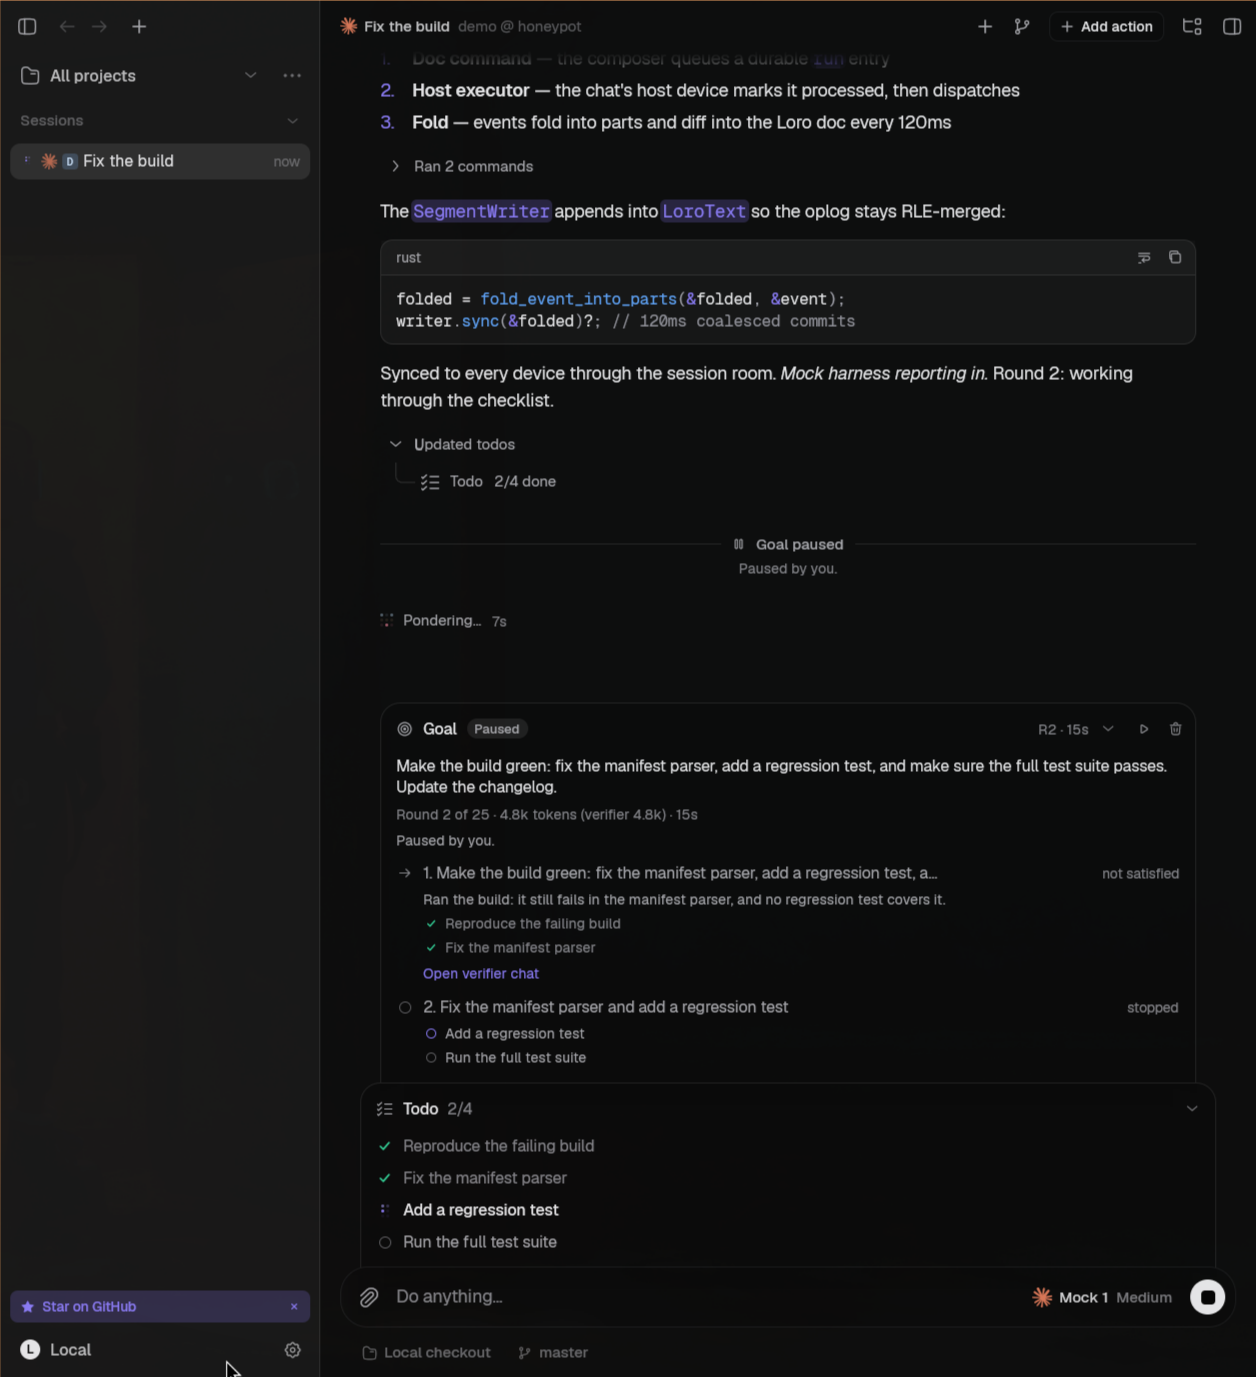
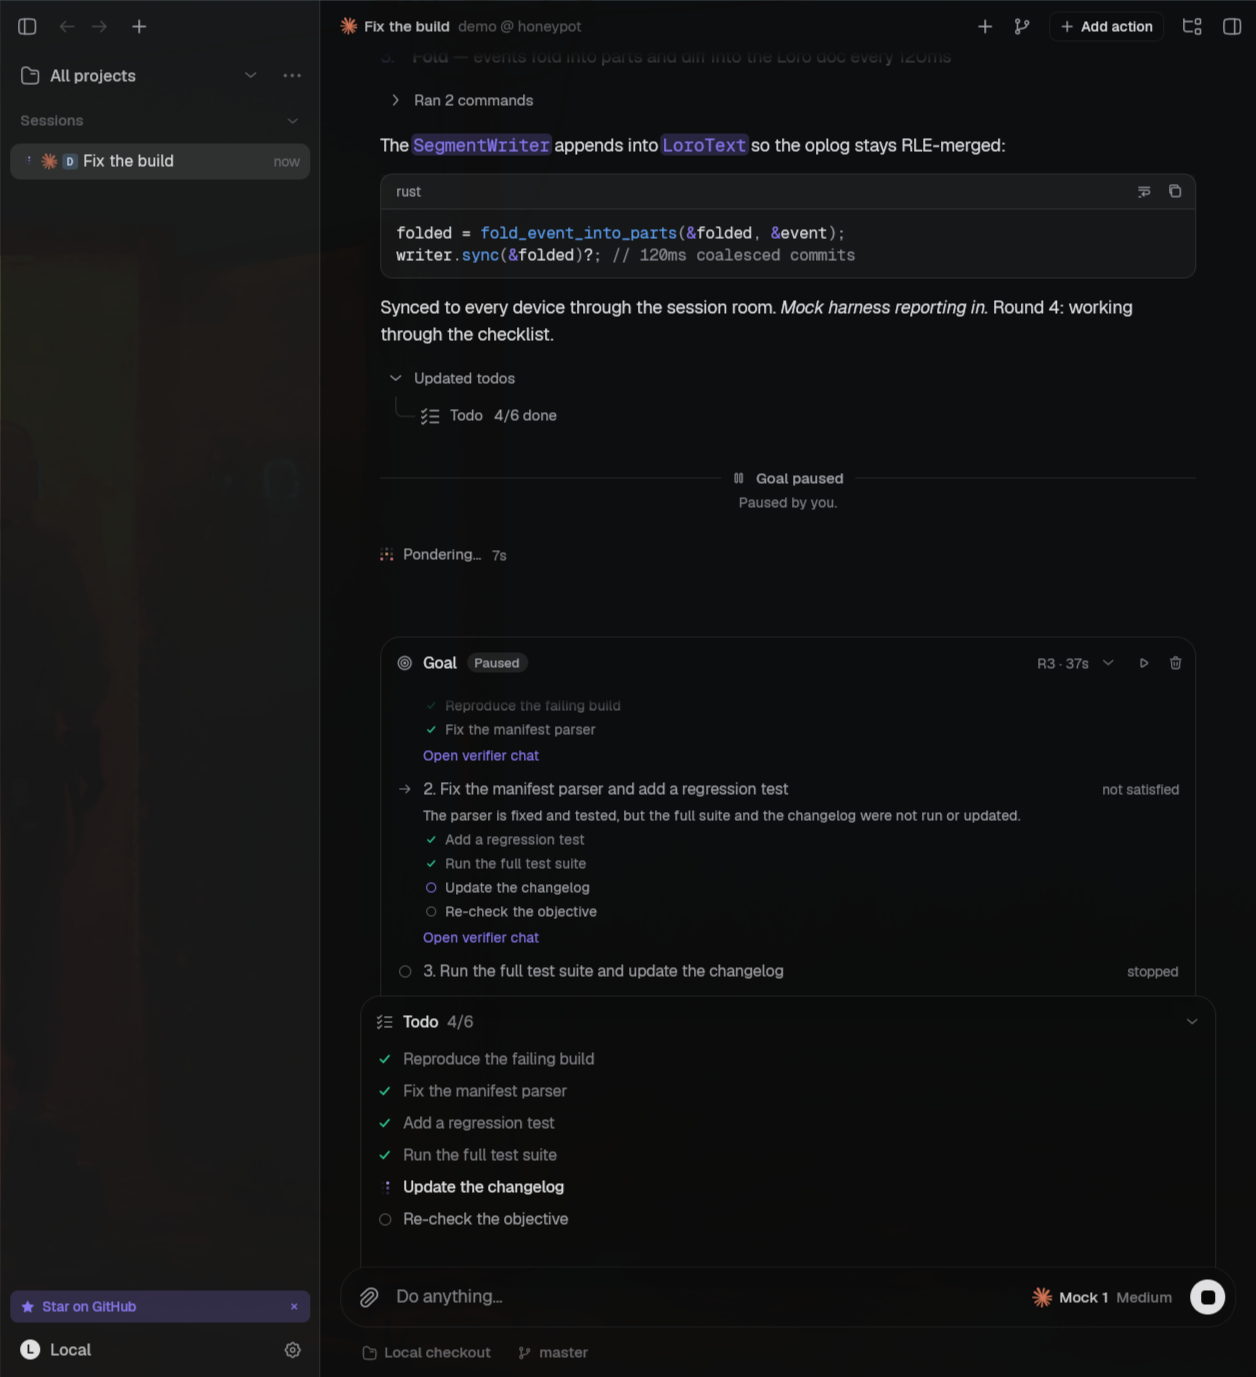
Dock: stacked trays clear each other and cap their heights
The expanded goal list was cut off by the todo tray tucked over it. Every
expanded list now keeps a bottom clearance equal to the tuck overlap (the todo
tray too, a one-line change in todo_panel.rs), the goal list's height share
shrinks as trays stack below it, and it follows the newest round. Retook the
goal-mode screenshots and added a stacked-trays one.

diff --git a/crates/ui/src/goal_panel.rs b/crates/ui/src/goal_panel.rs
@@ -422,6 +422,10 @@ pub(crate) struct GoalPanelState {
     pub open_rounds: HashSet<u32>,
     /// Bumped on every toggle so the body's fade-in replays.
     pub epoch: u32,
+    /// What the list was last scrolled to the end for (rounds, verdicts,
+    /// status); it follows the newest round when it opens and whenever a
+    /// round or verdict lands.
+    pub followed: Option<(usize, usize, GoalStatus)>,
 }
 
 // ---------------------------------------------------------------------------
@@ -436,6 +440,23 @@ const TEXT_LINE: f32 = 17.0;
 const GLYPH_SLOT: f32 = 14.0;
 const ACTION_SIZE: f32 = 24.0;
 const SIDE_INSET: f32 = 16.0;
+/// Space kept clear under the expanded list. Every tray tucks
+/// `QUEUE_COMPOSER_OVERLAP` behind whatever follows it (the todo or queue tray,
+/// or the composer); without this clearance the last round row would sit under
+/// that edge.
+pub(crate) const BODY_BOTTOM_CLEARANCE: f32 = 6.0 + QUEUE_COMPOSER_OVERLAP;
+
+/// Share of the window height the expanded goal list may take. The todo and
+/// queue trays each cap at 0.3; the goal tray gives way as trays stack below
+/// it, so a short window keeps room for the transcript and every list scrolls
+/// inside its own cap instead of pushing another tray out of view.
+pub(crate) fn body_height_fraction(trays_below: usize) -> f32 {
+    match trays_below {
+        0 => 0.32,
+        1 => 0.22,
+        _ => 0.18,
+    }
+}
 
 fn tone_color(tone: Tone, theme: &Theme) -> gpui::Hsla {
     match tone {
@@ -478,6 +499,13 @@ impl Composer {
                 let state = self.state.read(cx);
                 rounds(&goal, &state.transcript)
             };
+            let signature = (round_views.len(), goal.verdicts.len(), goal.status);
+            if panel.followed != Some(signature) {
+                self.goal_scroll.scroll_to_bottom();
+                if let Some(state) = self.goal_panels.get_mut(&chat_id) {
+                    state.followed = Some(signature);
+                }
+            }
             let body = self.goal_body(
                 &chat_id,
                 &goal,
@@ -495,7 +523,7 @@ impl Composer {
                 true,
                 div()
                     .id("goal-panel-body")
-                    .max_h(window.viewport_size().height * 0.36)
+                    .max_h(window.viewport_size().height * body_height_fraction(below))
                     .overflow_y_scroll()
                     .track_scroll(&self.goal_scroll)
                     .child(body),
@@ -601,6 +629,7 @@ impl Composer {
                 let panel = this.goal_panels.entry(toggle_chat.clone()).or_default();
                 panel.expanded = !panel.expanded;
                 panel.epoch = panel.epoch.wrapping_add(1);
+                panel.followed = None;
                 cx.notify();
             }))
             .tooltip(crate::settings::widgets::text_tooltip(label))
@@ -1085,6 +1114,7 @@ impl Composer {
             let panel = self.goal_panels.entry(chat_id.to_owned()).or_default();
             panel.expanded = true;
             panel.epoch = panel.epoch.wrapping_add(1);
+            panel.followed = None;
         } else {
             self.failure =
                 Some("This chat has no goal. Type /goal followed by an objective.".into());
@@ -1179,6 +1209,19 @@ mod tests {
 
     fn goal() -> Goal {
         Goal::new("g1", "Ship the thing", &GoalLimits::default(), 0).unwrap()
+    }
+
+    #[test]
+    fn stacked_trays_split_the_height_and_clear_the_overlap() {
+        // The goal list never takes more than the todo/queue cap, shrinks as
+        // trays stack under it, and the three together stay under 4/5 of the
+        // window (each list scrolls inside its own cap).
+        assert!(body_height_fraction(0) <= 0.35);
+        assert!(body_height_fraction(1) < body_height_fraction(0));
+        assert!(body_height_fraction(2) < body_height_fraction(1));
+        assert!(body_height_fraction(2) + 0.3 + 0.3 < 0.8);
+        // The last row clears the edge the next tray tucks over.
+        assert!(BODY_BOTTOM_CLEARANCE > QUEUE_COMPOSER_OVERLAP);
     }
 
     #[test]

diff --git a/crates/ui/src/todo_panel.rs b/crates/ui/src/todo_panel.rs
@@ -337,9 +337,10 @@ impl Composer {
             surface.child(
                 div()
                     .mt(px(2.0))
-                    // The tray's lowest strip hides behind the composer; keep
-                    // the last row clear of that edge.
-                    .pb(px(6.0))
+                    // The tray's lowest strip hides behind whatever follows
+                    // (the queue tray or the composer); keep the last row clear
+                    // of that edge.
+                    .pb(px(crate::goal_panel::BODY_BOTTOM_CLEARANCE))
                     .child(rows)
                     .with_animation(
                         SharedString::from(format!("todo-rows-{epoch}")),

diff --git a/docs/goal-mode.md b/docs/goal-mode.md
@@ -5,7 +5,7 @@
 ZCode; the difference is that the verifier here is a full hidden chat that can
 open files and run tests, not a tool-less model call over the transcript.
 
-Screenshots (live, mock harness with `ZERON_MOCK_GOAL=1`): [`docs/screenshots/goal-mode/`](screenshots/goal-mode/) — `collapsed-running` (tray header, round marker, goal-set marker), `collapsed-complete`, `expanded-rounds-working`, `expanded-paused` (reason line, verifier cost, per-round verdicts and todos), `expanded-complete`. The expanded shots use a build whose tray opens expanded by default (the tray itself defaults to collapsed); no interaction was automated.
+Screenshots (live, mock harness with `ZERON_MOCK_GOAL=1`): [`docs/screenshots/goal-mode/`](screenshots/goal-mode/) — `collapsed-running` (tray header, round marker, goal-set marker), `collapsed-complete`, `expanded-rounds-working`, `expanded-paused` (reason line, verifier cost, per-round verdicts and todos), `expanded-complete`, `stacked-trays` (goal + todo + queue together). The expanded shots use a build whose tray opens expanded by default (the tray itself defaults to collapsed); no interaction was automated.
 
 Two pieces, built to be separable:
 
@@ -219,6 +219,8 @@ rounds list. Round 1's title is the goal title, round *n*'s is the previous verd
 next action; opening a round shows the verdict reason, the todo items that first
 appeared during it (latest status) and "Open verifier chat". Markers in the transcript
 replace the round prompts and show verdicts, completion and pauses.
+
+Stacked trays never overlap their content: each expanded list keeps a clearance equal to the edge the next tray tucks over it, caps its height (the goal list takes 32% / 22% / 18% of the window as 0 / 1 / 2 trays stack below it; todo and queue keep 30%) and scrolls with the shared edge fade. The goal list follows the newest round (and verdict) as they land.
 
 The elapsed ticker repaints once a second while a goal runs and not at all under
 reduced motion (which covers "pause animations in background"); the spinner is the
